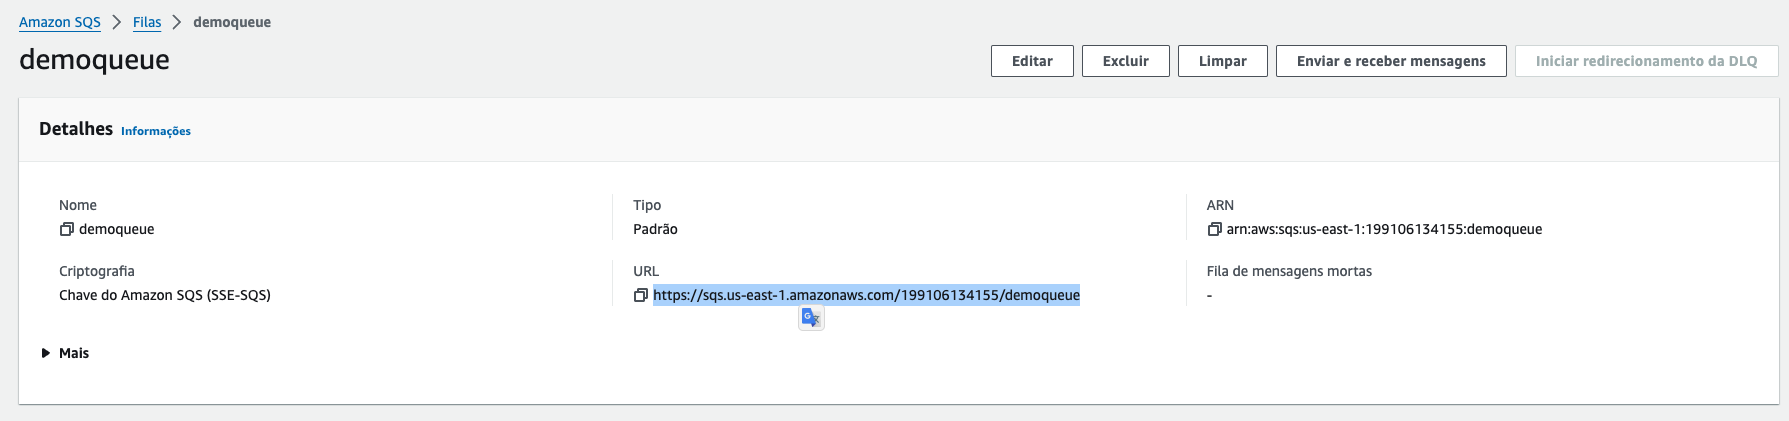
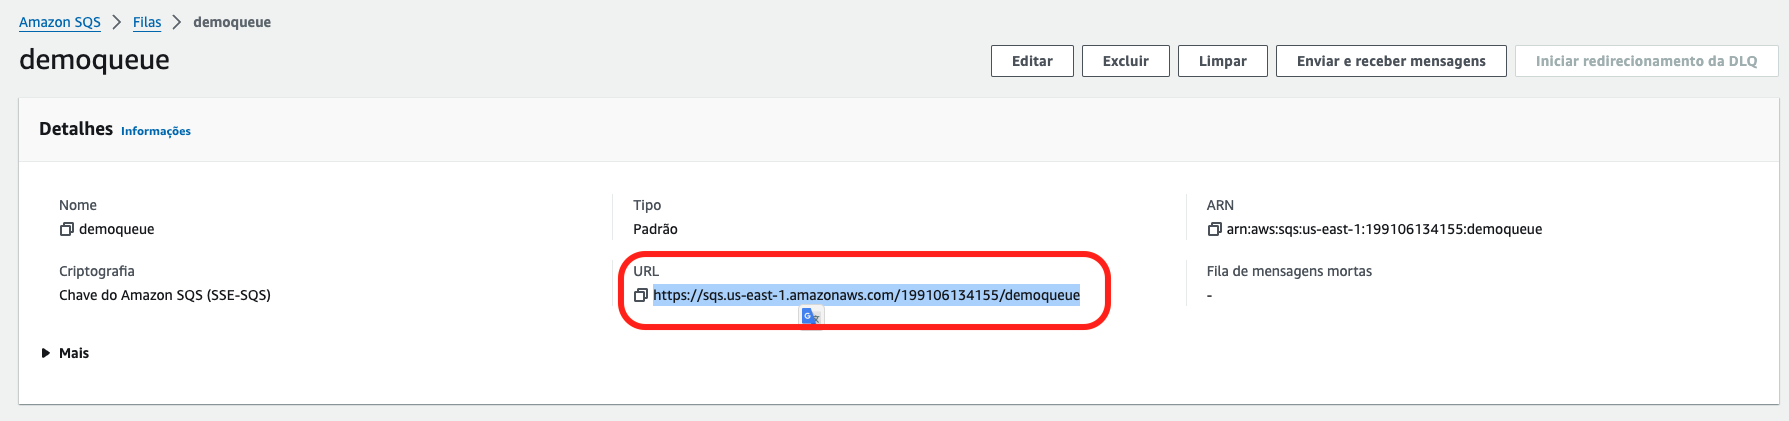
teste explicacao

Changed region(s): [[0.3382, 0.5867, 0.6456, 0.8029]]

diff --git a/05-SQS/01 - Standard Queue/README.md b/05-SQS/01 - Standard Queue/README.md
@@ -3,32 +3,140 @@
 ### Criando a fila sqs
 
 1. [Crie uma fila](https://us-east-1.console.aws.amazon.com/sqs/v3/home?region=us-east-1#/create-queue) no sqs colocando o nome 'demoqueue', deixe os valores default e clique em 'Criar Fila'
+    
     ![img/sqs01.png](img/sqs01.png)
 
     ![img/sqs01.png](img/sqs03.png)
 
-2. Copie a URL da sua fila que esta disposta conforme imagem:
-    ![](img/sqs02.png)
+2. Deixe essa aba aberta, será necessária para um passo adiante.
+
+<blockquote>
+
+# Interação com Filas Amazon SQS via URL
+
+A Amazon Simple Queue Service (Amazon SQS) fornece URLs exclusivas para cada fila criada. Essas URLs são usadas para interagir diretamente com as filas e são necessárias para realizar operações, como enviar e receber mensagens. A URL da fila serve como um identificador exclusivo para acessar a fila.
+
+## Formato da URL da Fila
+    A URL de uma fila geralmente segue este formato:
+    ```
+    https://sqs.<região>.amazonaws.com/<ID_da_conta>/<nome_da_fila>
+    ```
+
+- `<região>`: Representa a região AWS onde a fila está localizada (ex.: `us-east-1`).
+- `<ID_da_conta>`: O ID da conta AWS onde a fila foi criada.
+- `<nome_da_fila>`: O nome da fila criado pelo usuário.
+
+## Utilização da URL para Operações
+
+### Enviar Mensagens
+Para enviar mensagens para uma fila, utiliza-se a URL da fila como ponto de acesso para o endpoint de envio (`SendMessage`).
+
+### Receber Mensagens
+Para receber mensagens de uma fila, a URL é usada no endpoint de recebimento (`ReceiveMessage`), permitindo que aplicações façam polling na fila.
+
+### Excluir Mensagens
+Ao processar mensagens, a URL da fila é usada na chamada de exclusão (`DeleteMessage`) para remover a mensagem da fila, garantindo que ela não seja processada novamente.
+
+### Exemplo de Uso
+Ao configurar clientes SQS nas SDKs da AWS, basta passar a URL da fila para o método de operações, conforme o exemplo:
+
+```python
+    # Exemplo em Python usando boto3
+    import boto3
+
+    # Criando o cliente SQS
+    sqs = boto3.client('sqs')
+
+    # Definindo a URL da fila
+    queue_url = 'https://sqs.us-east-1.amazonaws.com/123456789012/minha-fila'
+
+    # Enviando uma mensagem
+    sqs.send_message(QueueUrl=queue_url, MessageBody='Olá, SQS!')
+
+```
+
+## Conclusão
+As URLs de filas Amazon SQS são componentes essenciais para identificar e interagir com filas na AWS, permitindo uma integração direta e segura com a fila específica através de operações padrão oferecidas pela SQS.
+
+</blockquote>
 
 ### Enviando dados para a fila
 
 1. No terminal do CLoud 9 IDE criado no cloud9 execute o comando `cd ~/environment/fiap-cloud-computing-tutorials/05-SQS/01\ -\ Standard\ Queue/` para entrar na pasta que fara este exercicio.
 2. Abra o arquivo put.py com o comando `c9 open put.py`
-3. Altere o arquivo put.py adicionando a URL da fila do sqs que criou nos passos anteriores
+3. Volte a aba do SQS e copie a URL da fila que criou nos passos anteriores
+    
+    ![](img/sqs02.png)
+    
+4. Altere o arquivo put.py adicionando a URL da fila do sqs que criou nos passos anteriores
 
     ![img/sendtoqueue01.png](img/sendtoqueue01.png)
 
-3. Execute os comandos abaixo para garantir que esta em um ambiente virtual do python com as dependencias necessárias para executar o execício:
+5. Execute os comandos abaixo para garantir que esta em um ambiente virtual do python com as dependencias necessárias para executar o execício:
 
    ``` shell
    pip3 install virtualenv && python3 -m venv ~/venv
    source ~/venv/bin/activate
    pip3 install boto3
-   npm i serverless@3.39.0 -g
+   sudo npm i serverless@3.39.0 -g
    ```
 
-4. Execute o comando `python3 put.py` no terminal para colocar 3000 mensagens na fila. Verifique no [console](https://us-east-1.console.aws.amazon.com/sqs/v3/home?region=us-east-1#/queues) o resultado do comando.
+6. Execute o comando `python3 put.py` no terminal para colocar 3000 mensagens na fila. Verifique no [console](https://us-east-1.console.aws.amazon.com/sqs/v3/home?region=us-east-1#/queues) o resultado do comando.
+
 ![alt](img/sendtoqueue02.png)
+
+<details open>
+<summary>Explicação</summary>
+
+<blockquote>
+
+### Explicação do Código
+
+```python
+from sqsHandler import SqsHandler
+```
+- Este comando importa a classe **`SqsHandler`** de um módulo chamado **`sqsHandler`**. A **`SqsHandler`** é provavelmente uma classe personalizada que encapsula a lógica de interação com o **Amazon SQS** (como envio de mensagens em lote, recebimento de mensagens, etc.).
+
+```python
+mensagens = []
+for num in range(3000):
+    mensagens.append({'Id': str(num), 'MessageBody': str(num)})
+```
+- Cria uma lista chamada **`mensagens`** que armazenará **3000 mensagens** a serem enviadas à fila SQS.
+- O laço **`for`** itera de **0** a **2999**, e em cada iteração adiciona um dicionário à lista **`mensagens`**. Cada dicionário representa uma mensagem individual no formato exigido pelo SQS, com:
+  - **`Id`**: Um identificador único da mensagem (aqui, usando o valor de `num` como string).
+  - **`MessageBody`**: O corpo da mensagem, que também é o valor de `num` convertido para string.
+
+```python
+splitMsg = [mensagens[x:x+10] for x in range(0, len(mensagens), 10)]
+```
+- Este comando usa uma **list comprehension** para dividir a lista **`mensagens`** em **sublistas de até 10 mensagens**.
+- Como o **Amazon SQS** permite o envio de no máximo **10 mensagens por vez** em uma operação de envio em lote, este código divide a lista original **`mensagens`** em sublistas de tamanho 10.
+- **`splitMsg`** conterá várias sublistas de mensagens, cada uma com no máximo 10 mensagens.
+
+```python
+sqs = SqsHandler('<url da sua fila>')
+```
+- Aqui, uma instância da classe **`SqsHandler`** é criada e configurada para apontar para a URL da fila SQS desejada. A URL da fila deve ser fornecida no lugar de **`<url da sua fila>`**.
+- A **`SqsHandler`** provavelmente encapsula a lógica de envio e manipulação de mensagens SQS, incluindo operações em lote.
+
+```python
+for lista in splitMsg:
+    print(type(lista))
+    print(str(lista))
+    sqs.sendBatch(lista)
+```
+- Este laço **`for`** itera sobre cada sublista **`lista`** em **`splitMsg`**.
+- **`print(type(lista))`** e **`print(str(lista))`**: Exibem o tipo e o conteúdo de cada sublista (ou lote de mensagens). Cada sublista tem o tipo **`list`** e contém até 10 dicionários (cada um representando uma mensagem).
+- **`sqs.sendBatch(lista)`**: Envia o lote de mensagens **`lista`** para a fila SQS utilizando o método **`sendBatch`** da instância **`SqsHandler`**. Esse método provavelmente é configurado para enviar um lote de mensagens (de até 10) para a fila SQS usando a API `send_message_batch` do **Boto3** (SDK da AWS para Python).
+
+### Resumo
+
+Este código cria **3000 mensagens**, divide-as em lotes de até **10 mensagens cada** (como exigido pelo SQS para envios em lote), e envia cada lote para a fila SQS usando a **`SqsHandler`**. Essa abordagem é eficiente para enviar grandes quantidades de mensagens sem exceder o limite de mensagens em uma operação em lote do SQS.
+
+</blockquote>
+
+</details>
 
 ### Consumindo SQS
 
